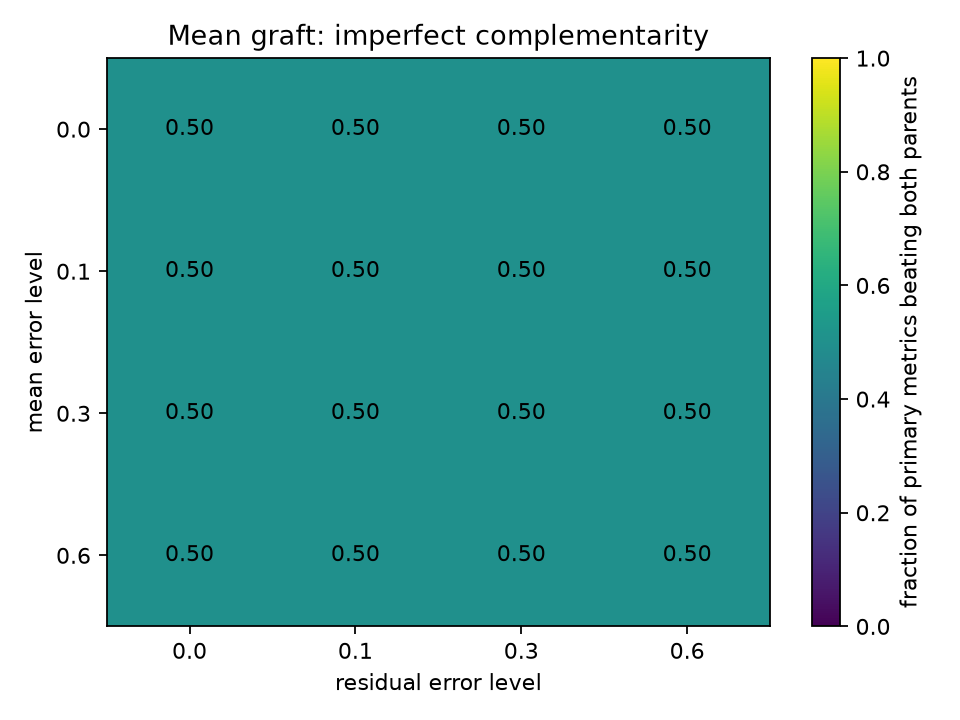
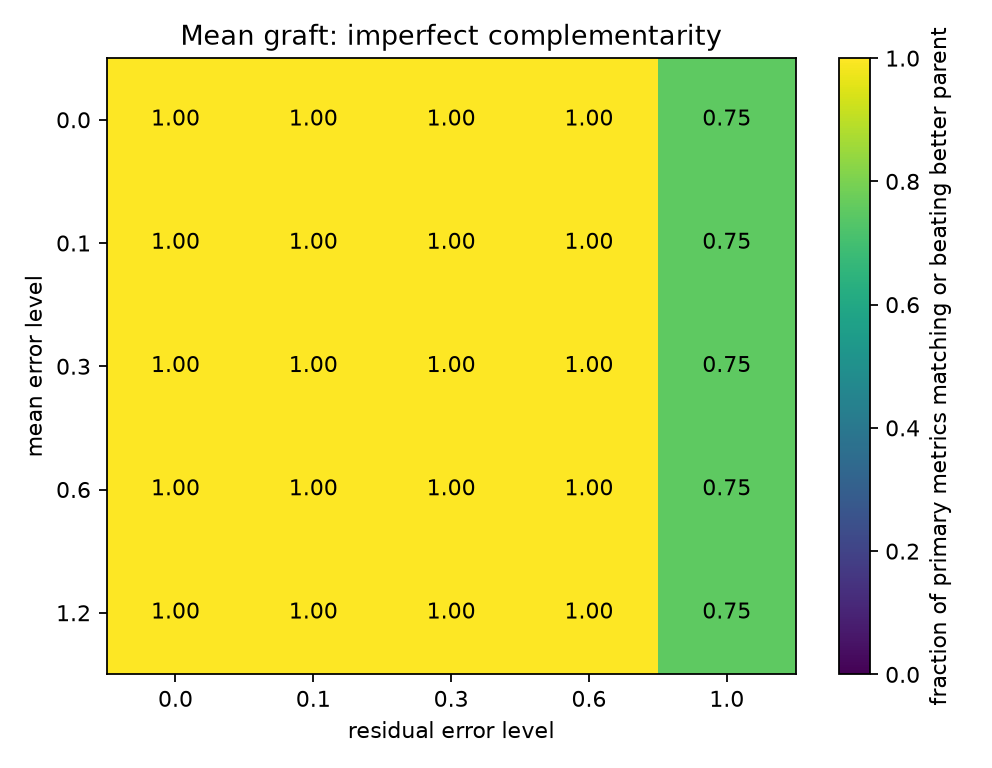
Refresh ensemble regime maps [regime-results] [skip ci]

diff --git a/REGIME_RESULTS.md b/REGIME_RESULTS.md
@@ -2,9 +2,9 @@
 
 Scorer pinned to `aristoteleo/veckit@46d41e63f42a9aab815db20b742feeccd249cb17`.
 
-These use the organizers' public mini targets. The exact cases in `RESULTS.md` remain implementation checks; here the parents are only imperfectly complementary.
+These use the organizers' public mini targets. `RESULTS.md` contains the exact preservation/integration checks. The experiments here deliberately make both parents imperfect.
 
-`primary_win_fraction` is the fraction of task primary metrics on which the blend is strictly better than both parents. T1 uses DE score, DE direction, MMD and variogram. T2 also includes d2 shape, sliced Wasserstein, occupancy Dice and neighborhood MMD.
+The heatmaps report the fraction of primary metrics where the blend matches or beats the better parent. A value of 1.0 means there is no primary-metric tradeoff relative to choosing whichever parent was better metric by metric.
 
 ## Official floor baselines
 
@@ -18,19 +18,19 @@ The challenge defines `copy_last` as the T1/T2 floor and `wt_identity` as the T3
 
 ## Mean graft
 
-Summary: `{"imperfect_grid_points": 15, "points_with_any_primary_win": 15, "points_with_half_or_more_primary_wins": 15, "max_primary_wins": 2}`
+Summary: `{"imperfect_grid_points": 24, "points_preserving_best_on_all_primary_metrics": 19, "points_preserving_best_on_at_least_half": 24, "points_with_any_strict_win_vs_both": 24, "points_worse_than_both_on_any_primary_metric": 0, "min_best_preserved_fraction": 0.75}`
 
 ![Mean graft regime map](regime_results/mean_regime.png)
 
 ## Quantile graft
 
-Summary: `{"imperfect_grid_points": 15, "points_with_any_primary_win": 15, "points_with_half_or_more_primary_wins": 15, "max_primary_wins": 2}`
+Summary: `{"imperfect_grid_points": 24, "points_preserving_best_on_all_primary_metrics": 19, "points_preserving_best_on_at_least_half": 19, "points_with_any_strict_win_vs_both": 19, "points_worse_than_both_on_any_primary_metric": 0, "min_best_preserved_fraction": 0.0}`
 
 ![Quantile graft regime map](regime_results/quantile_regime.png)
 
 ## Spatial transplant
 
-Summary: `{"imperfect_grid_points": 15, "points_with_any_primary_win": 15, "points_with_half_or_more_primary_wins": 0, "max_primary_wins": 2}`
+Summary: `{"imperfect_grid_points": 24, "points_preserving_best_on_all_primary_metrics": 20, "points_preserving_best_on_at_least_half": 24, "points_with_any_strict_win_vs_both": 24, "points_worse_than_both_on_any_primary_metric": 3, "min_best_preserved_fraction": 0.625}`
 
 ![Spatial transplant regime map](regime_results/spatial_regime.png)
 
@@ -46,22 +46,24 @@ Summary: `{"imperfect_grid_points": 15, "points_with_any_primary_win": 15, "poin
 |              0.3 | greedy       |       5.09523e-06 |               3.88354 |                    0 |                1 |           -0.00389 |
 |              0.6 | hungarian    |       5.09523e-06 |               5.53865 |                    0 |                1 |           -0.00389 |
 |              0.6 | greedy       |      81.7486      |               5.91216 |                    0 |                1 |            0.00119 |
+|              1   | hungarian    |       5.09523e-06 |               7.76761 |                    0 |                1 |           -0.00389 |
+|              1   | greedy       |     133.802       |               9.28761 |                    0 |                1 |            0.02416 |
 
 ## Population mixtures
 
-Whole-cell mixtures have no factor-preservation guarantee, so the table varies parent complementarity and alpha directly.
+Whole-cell mixtures have no factor-preservation guarantee. The table varies parent complementarity and alpha directly.
 
-|   complementarity_severity |   alpha |   primary_wins_vs_both |   primary_losses_vs_both |   primary_win_fraction |
-|---------------------------:|--------:|-----------------------:|-------------------------:|-----------------------:|
-|                       0.25 |    0.25 |                      0 |                        1 |                   0    |
-|                       0.25 |    0.5  |                      1 |                        1 |                   0.25 |
-|                       0.25 |    0.75 |                      2 |                        0 |                   0.5  |
-|                       0.5  |    0.25 |                      1 |                        0 |                   0.25 |
-|                       0.5  |    0.5  |                      1 |                        0 |                   0.25 |
-|                       0.5  |    0.75 |                      1 |                        0 |                   0.25 |
-|                       0.75 |    0.25 |                      1 |                        0 |                   0.25 |
-|                       0.75 |    0.5  |                      1 |                        0 |                   0.25 |
-|                       0.75 |    0.75 |                      1 |                        0 |                   0.25 |
+|   complementarity_severity |   alpha |   primary_wins_vs_both |   primary_best_preserved |   primary_worse_than_best |   primary_losses_vs_both |   primary_best_preserved_fraction |
+|---------------------------:|--------:|-----------------------:|-------------------------:|--------------------------:|-------------------------:|----------------------------------:|
+|                       0.25 |    0.25 |                      0 |                        0 |                         4 |                        1 |                              0    |
+|                       0.25 |    0.5  |                      1 |                        1 |                         3 |                        1 |                              0.25 |
+|                       0.25 |    0.75 |                      2 |                        2 |                         2 |                        0 |                              0.5  |
+|                       0.5  |    0.25 |                      1 |                        1 |                         3 |                        0 |                              0.25 |
+|                       0.5  |    0.5  |                      1 |                        1 |                         3 |                        0 |                              0.25 |
+|                       0.5  |    0.75 |                      1 |                        1 |                         3 |                        0 |                              0.25 |
+|                       0.75 |    0.25 |                      1 |                        1 |                         3 |                        0 |                              0.25 |
+|                       0.75 |    0.5  |                      1 |                        1 |                         3 |                        0 |                              0.25 |
+|                       0.75 |    0.75 |                      1 |                        2 |                         2 |                        0 |                              0.5  |
 
 ## Raw outputs
 
